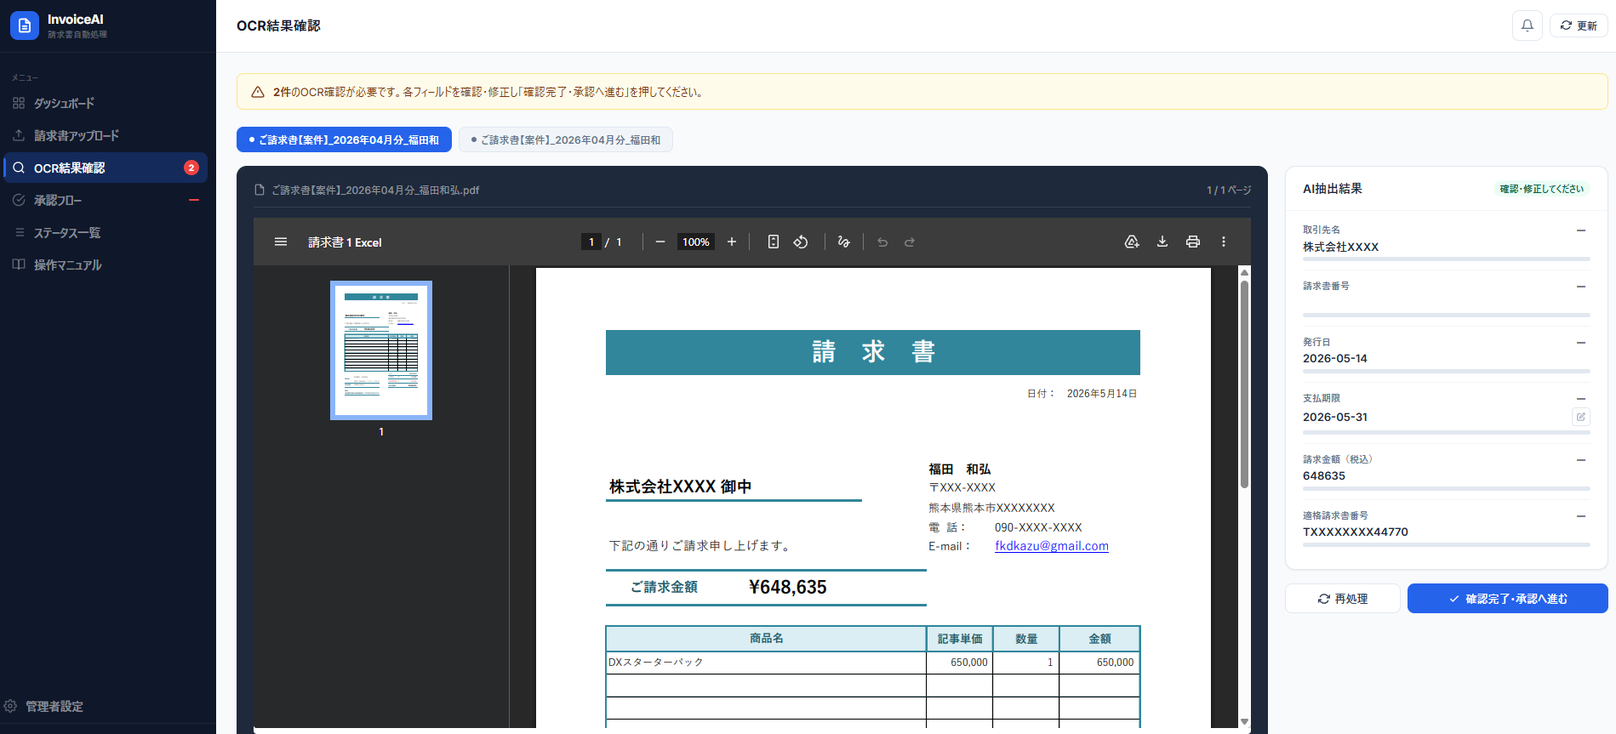
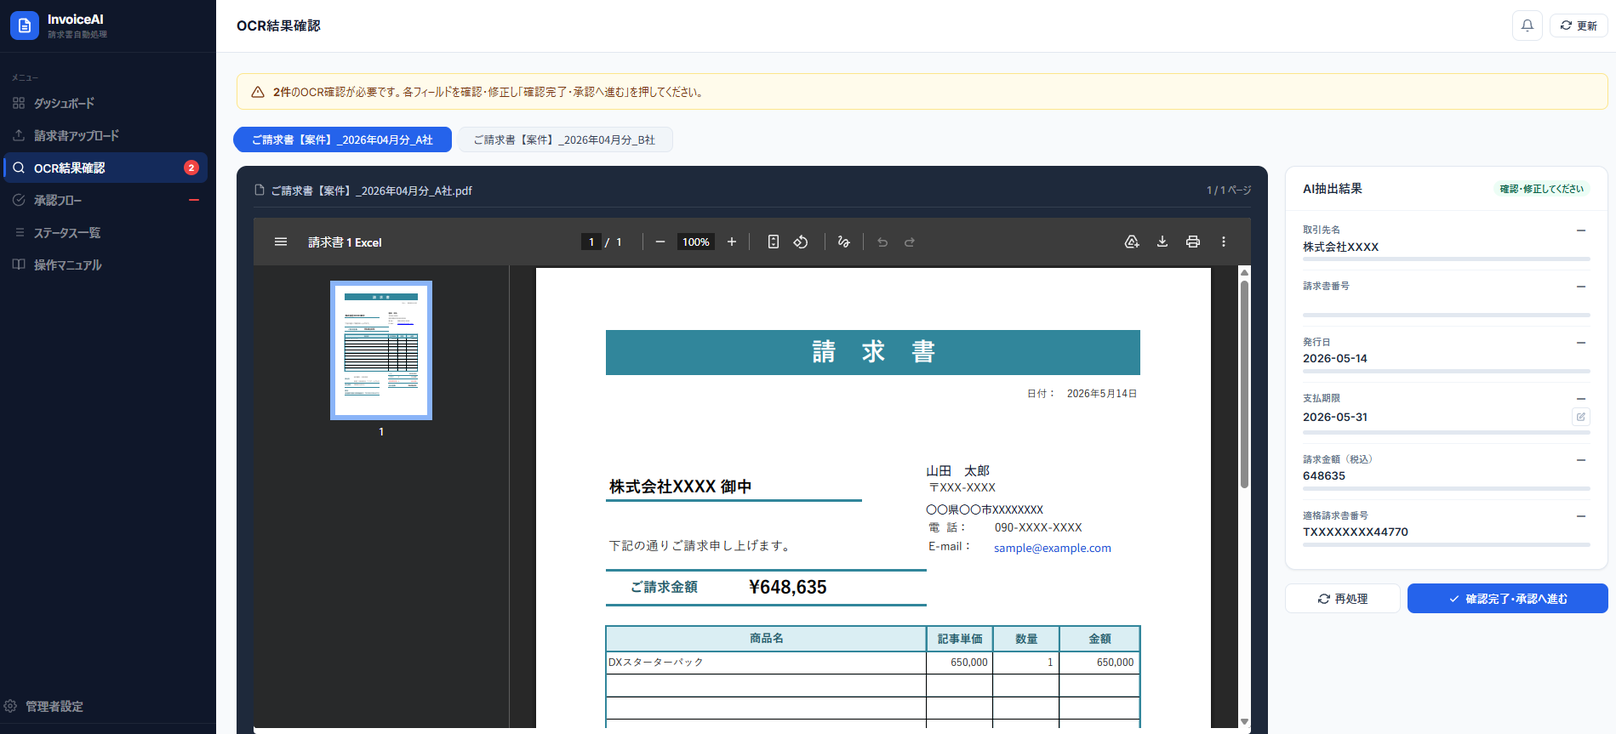
feat: 請求書OCRの記事を公開し、ツール画面から個人情報を伏せる
第4号記事「請求書OCRを2つのAIエンジンで自動化した実装記」を公開した。
AI-OCRの精度をどう扱うかを軸に、読み取り精度を検収基準に置かず
人の確認を前提に設計した判断を書いている。

あわせて DXスターターパックのページで使っている画面キャプチャ5枚を
個人情報を伏せた版に差し替えた。
氏名・メールアドレス・住所が生のまま写っていたもので、
塗り潰しではなく背景色を合わせたうえで架空の値を描いている。

Changed region(s): [[0.5592, 0.6327, 0.6835, 0.7532], [0.1553, 0.1808, 0.4039, 0.2109], [0.1553, 0.241, 0.3107, 0.2711]]

diff --git a/blog/invoice-ocr-automation/index.html b/blog/invoice-ocr-automation/index.html
@@ -1,0 +1,127 @@
+<!DOCTYPE html><html lang="ja"> <head><meta charset="UTF-8"><meta name="viewport" content="width=device-width, initial-scale=1.0"><title>請求書OCRを2つのAIエンジンで自動化した実装記｜Textract・Claude Vision使い分けの理由</title><meta name="description" content="請求書OCRをAmazon TextractとClaude Visionの2エンジン選択式で自動化した実装記。処理速度の実測値、精度検証の失敗談、100%を保証しない品質担保の考え方を紹介します。"><link rel="canonical" href="https://shikou-ai.com/blog/invoice-ocr-automation/"><link rel="icon" type="image/png" href="/logo-icon.png"><!-- OGP --><meta property="og:type" content="website"><meta property="og:title" content="請求書OCRを2つのAIエンジンで自動化した実装記｜Textract・Claude Vision使い分けの理由"><meta property="og:description" content="請求書OCRをAmazon TextractとClaude Visionの2エンジン選択式で自動化した実装記。処理速度の実測値、精度検証の失敗談、100%を保証しない品質担保の考え方を紹介します。"><meta property="og:image" content="https://shikou-ai.com/blog/og/invoice-ocr-automation.png"><meta property="og:url" content="https://shikou-ai.com/blog/invoice-ocr-automation/"><meta name="twitter:card" content="summary_large_image"><meta name="twitter:title" content="請求書OCRを2つのAIエンジンで自動化した実装記｜Textract・Claude Vision使い分けの理由"><meta name="twitter:description" content="請求書OCRをAmazon TextractとClaude Visionの2エンジン選択式で自動化した実装記。処理速度の実測値、精度検証の失敗談、100%を保証しない品質担保の考え方を紹介します。"><meta name="twitter:image" content="https://shikou-ai.com/blog/og/invoice-ocr-automation.png"><!-- Google Fonts --><link rel="preconnect" href="https://fonts.googleapis.com"><link rel="preconnect" href="https://fonts.gstatic.com" crossorigin><link href="https://fonts.googleapis.com/css2?family=Noto+Sans+JP:wght@400;500;700&display=swap" rel="stylesheet"><link rel="stylesheet" href="/blog/_astro/_slug_.CkmGLpor.css">
+<link rel="stylesheet" href="/blog/_astro/_slug_.9WCtaYt9.css"><script type="module">const i=document.getElementById("article-body");if(i){const e=i.innerText.replace(/\s+/g,"").length,o=Math.max(1,Math.ceil(e/600)),n=document.getElementById("reading-time");n&&(n.textContent=`約${o}分で読めます`)}const u=Array.from(document.querySelectorAll("#article-body h2, #article-body h3")),d=document.getElementById("toc-inline");if(d&&u.length>0){let e=null,o=null;u.forEach((n,a)=>{if(n.id||(n.id=`h-${a}`),n.tagName==="H2"){e=document.createElement("div"),e.className="toc-group";const l=document.createElement("a");l.href=`#${n.id}`,l.className="toc-h2-label",l.textContent=n.textContent??"",e.appendChild(l),d.appendChild(e),o=null}else{o||(o=document.createElement("ul"),o.className="toc-h3-list",e?e.appendChild(o):d.appendChild(o));const l=document.createElement("li"),c=document.createElement("a");c.href=`#${n.id}`,c.textContent=n.textContent??"",l.appendChild(c),o.appendChild(l)}})}else if(d){const e=d.closest(".toc-box");e&&(e.style.display="none")}const p=encodeURIComponent(location.href),f=encodeURIComponent(document.title),m=document.getElementById("share-x");m&&(m.href=`https://twitter.com/intent/tweet?url=${p}&text=${f}`);const h=Array.from(document.querySelectorAll("#article-body img"));if(h.length>0){const e=document.createElement("div");e.className="lightbox",e.setAttribute("role","dialog"),e.setAttribute("aria-modal","true"),e.hidden=!0;const o=document.createElement("img");o.className="lightbox-img",o.alt="";const n=document.createElement("button");n.className="lightbox-close",n.type="button",n.setAttribute("aria-label","閉じる"),n.textContent="×";const a=document.createElement("p");a.className="lightbox-caption",e.appendChild(n),e.appendChild(o),e.appendChild(a),document.body.appendChild(e);let l=null;const c=t=>{l=t,o.src=t.currentSrc||t.src,o.alt=t.alt,a.textContent=t.alt,e.hidden=!1,document.body.style.overflow="hidden",n.focus()},s=()=>{e.hidden=!0,o.src="",document.body.style.overflow="",l&&l.focus()};h.forEach(t=>{t.closest("a")||(t.classList.add("zoomable"),t.tabIndex=0,t.setAttribute("role","button"),t.setAttribute("aria-label",`${t.alt} を拡大表示`),t.addEventListener("click",()=>c(t)),t.addEventListener("keydown",r=>{(r.key==="Enter"||r.key===" ")&&(r.preventDefault(),c(t))}))}),n.addEventListener("click",s),e.addEventListener("click",t=>{t.target===e&&s()}),document.addEventListener("keydown",t=>{t.key==="Escape"&&!e.hidden&&s()})}
+</script></head> <body class="bg-white text-gray-900"> <!-- Header：ai-consulting-lp のヘッダーに合わせる --> <header class="border-b border-[#dfe6ee] bg-white/95 backdrop-blur sticky top-0 z-50"> <div class="max-w-5xl mx-auto px-6 h-16 flex items-center justify-between"> <a href="/" class="flex items-center gap-2.5 group"> <img src="/logo-mark.png" alt="SHIKOU × AI" class="h-7 w-auto"> <span class="text-[15px] font-black tracking-[0.08em] text-[#0b2138] group-hover:text-[#2f6fd0] transition-colors">SHIKOU<span class="text-[#2f6fd0] mx-[0.16em]">×</span>AI</span> </a> <nav class="flex items-center gap-1 text-sm"> <a href="/blog/" class="px-3 py-1.5 text-[#5a6b7d] hover:text-[#2f6fd0] transition-colors font-bold text-[13.5px]">
+ブログ
+</a> <a href="/about.html" class="px-3 py-1.5 text-[#5a6b7d] hover:text-[#2f6fd0] transition-colors font-bold text-[13.5px] hidden sm:inline">
+会社概要
+</a> <a href="/#services" class="px-3 py-1.5 text-[#5a6b7d] hover:text-[#2f6fd0] transition-colors font-bold text-[13.5px] hidden sm:inline">
+サービス
+</a> <a href="/contact.html" class="ml-2 px-5 py-2 bg-[#0b2138] text-white rounded-md font-bold text-[13.5px] hover:bg-[#102a43] transition-colors">
+お問合せ
+</a> </nav> </div> </header> <main class="max-w-3xl mx-auto px-6 py-8 bg-white">  <script type="application/ld+json">{"@context":"https://schema.org","@type":"BlogPosting","headline":"請求書OCRを2つのAIエンジンで自動化した実装記｜Textract・Claude Vision使い分けの理由","description":"請求書OCRをAmazon TextractとClaude Visionの2エンジン選択式で自動化した実装記。処理速度の実測値、精度検証の失敗談、100%を保証しない品質担保の考え方を紹介します。","datePublished":"2026-09-01T00:00:00.000Z","author":{"@type":"Person","name":"福田 和弘"},"publisher":{"@type":"Organization","name":"SHIKOU × AI"},"articleSection":"AI業務効率化"}</script>  <nav class="text-xs text-gray-400 mb-5 flex gap-1.5 items-center flex-wrap" aria-label="breadcrumb" data-astro-cid-bvzihdzo> <svg xmlns="http://www.w3.org/2000/svg" class="w-3.5 h-3.5 text-gray-300" fill="currentColor" viewBox="0 0 20 20" data-astro-cid-bvzihdzo><path d="M10 2a8 8 0 100 16A8 8 0 0010 2zm0 1.5a6.5 6.5 0 110 13 6.5 6.5 0 010-13z" data-astro-cid-bvzihdzo></path></svg> <a href="/" class="hover:text-gray-600 transition-colors" data-astro-cid-bvzihdzo>ホーム</a> <span class="text-gray-300" data-astro-cid-bvzihdzo>›</span> <a href="/blog/" class="hover:text-gray-600 transition-colors" data-astro-cid-bvzihdzo>ブログ</a>  <span class="text-gray-300" data-astro-cid-bvzihdzo>›</span> <a href="/blog/category/ai-efficiency/" class="hover:text-gray-600 transition-colors" data-astro-cid-bvzihdzo>AI業務効率化</a>  <span class="text-gray-300" data-astro-cid-bvzihdzo>›</span> <span class="text-gray-500 truncate max-w-[200px]" data-astro-cid-bvzihdzo>請求書OCRを2つのAIエンジンで自動化した実装記｜Textract・Claude Vision使い分けの理由</span> </nav> <article data-astro-cid-bvzihdzo> <!-- Title --> <h1 class="text-2xl md:text-[1.75rem] font-black leading-snug mb-5 text-[#0b2138] tracking-tight" data-astro-cid-bvzihdzo>請求書OCRを2つのAIエンジンで自動化した実装記｜Textract・Claude Vision使い分けの理由</h1> <!-- アイキャッチ（OG画像はSNSシェア用。記事内では heroImage を使う） --> <div class="mb-6" data-astro-cid-bvzihdzo> <img src="/blog/img/eyecatch-invoice-ocr-automation.jpg" alt="" width="1200" height="670" class="w-full h-auto rounded-md border border-[#dfe6ee]" loading="eager" fetchpriority="high" decoding="async" data-astro-cid-bvzihdzo> </div> <!-- Tags + Meta --> <div class="flex flex-wrap items-center gap-x-4 gap-y-2 mb-6" data-astro-cid-bvzihdzo> <div class="flex gap-2 flex-wrap" data-astro-cid-bvzihdzo> <span class="text-xs bg-[#102a43] text-white px-3 py-1 rounded-full font-medium" data-astro-cid-bvzihdzo>請求書</span><span class="text-xs bg-[#102a43] text-white px-3 py-1 rounded-full font-medium" data-astro-cid-bvzihdzo>AI-OCR</span><span class="text-xs bg-[#102a43] text-white px-3 py-1 rounded-full font-medium" data-astro-cid-bvzihdzo>経理</span><span class="text-xs bg-[#102a43] text-white px-3 py-1 rounded-full font-medium" data-astro-cid-bvzihdzo>業務自動化</span><span class="text-xs bg-[#102a43] text-white px-3 py-1 rounded-full font-medium" data-astro-cid-bvzihdzo>精度</span> </div> <div class="text-xs text-gray-400 ml-auto flex gap-3" data-astro-cid-bvzihdzo>  <time datetime="2026-09-01T00:00:00.000Z" data-astro-cid-bvzihdzo>2026/9/1 公開</time> </div> </div> <!-- CTA Banner --> <a href="/contact.html" class="mb-8 bg-[#0b2138] rounded-md px-6 py-4 flex items-center justify-between text-white no-underline hover:bg-[#102a43] transition-colors" data-astro-cid-bvzihdzo> <div class="flex items-center gap-4" data-astro-cid-bvzihdzo> <div class="text-xs bg-white/15 rounded-full px-3 py-1 text-center leading-tight whitespace-nowrap" data-astro-cid-bvzihdzo> <div class="text-[0.6rem] opacity-80" data-astro-cid-bvzihdzo>AI業務改善</div> <div data-astro-cid-bvzihdzo>ご相談</div> </div> <div data-astro-cid-bvzihdzo> <p class="text-[0.7rem] opacity-75" data-astro-cid-bvzihdzo>技術と現場、両方わかるAIコンサル</p> <p class="font-bold text-base leading-snug" data-astro-cid-bvzihdzo>面倒な作業を、1つ挙げてください。</p> </div> </div> <div class="w-8 h-8 rounded-full border-2 border-white/50 flex items-center justify-center flex-shrink-0" data-astro-cid-bvzihdzo> <svg xmlns="http://www.w3.org/2000/svg" class="w-4 h-4" fill="none" viewBox="0 0 24 24" stroke="currentColor" data-astro-cid-bvzihdzo><path stroke-linecap="round" stroke-linejoin="round" stroke-width="2" d="M9 5l7 7-7 7" data-astro-cid-bvzihdzo></path></svg> </div> </a> <!-- 目次 --> <div class="toc-box border border-gray-200 mb-10" data-astro-cid-bvzihdzo> <div class="px-4 py-2 border-b border-gray-200" data-astro-cid-bvzihdzo> <span class="font-bold text-gray-600 text-xs tracking-wide" data-astro-cid-bvzihdzo>目次</span> </div> <nav id="toc-inline" class="px-4 py-3" data-astro-cid-bvzihdzo></nav> </div> <!-- Article Content --> <div id="article-body" class="prose prose-gray max-w-none bg-white
+      prose-p:leading-[1.9] prose-p:text-gray-700 prose-p:text-[1rem]
+      prose-a:text-[#2f6fd0] prose-a:underline
+      prose-strong:text-gray-900 prose-strong:font-bold
+      prose-li:text-gray-700 prose-li:text-[1rem]
+      prose-img:rounded-sm
+    " data-astro-cid-bvzihdzo>  <p>紙やPDFで届く請求書を、Excelに手で打ち直す。この作業をなくしたい、というのが出発点でした。</p>
+<p>そこで、AIによるOCR（光学文字認識。画像内の文字を機械が読み取る技術）で読み取り、確認・修正・承認・ステータス管理までをクラウド上で完結できるアプリを作りました。</p>
+<p>ただ、作りながら分かったのは<mark class="warn">「読み取れれば終わり」ではない</mark>ということです。OCRエンジンにはAmazon TextractとClaude Vision（Anthropicの画像認識AI）の2つを用意し、案件ごとに選べる形にしました。</p>
+<p>なぜ1つに絞らなかったのか。そこに至るまでに何でつまずいたのか。AI-OCRの導入を考えている方が、精度や運用の線引きをどこに置けばよいかを判断する材料になればと思います。</p>
+<h2 id="何ができるものか">何ができるものか</h2>
+<p>このシステムは、経理担当者が請求書のPDFや画像をアップロードすると、AIが金額・日付・取引先などの項目を読み取り、確認画面に自動で反映するところまでを行います。読み取り結果は人が確認・修正したうえで承認担当者に回り、承認されるとステータスが更新される流れです。</p>
+<img src="/blog/img/screen-invoice-ocr.png" alt="OCR結果の確認画面。左に請求書のPDFを表示し、右側に取引先名・請求書番号・発行日・支払期限・請求金額・適格請求書番号をAIが抽出した結果が並ぶ。各項目は編集でき、下部に「確認完了・承認へ進む」ボタンがある" width="1899" height="863" loading="lazy" decoding="async" style="width:100%;max-width:100%;height:auto;margin:1.5rem auto 0.6rem;display:block;border:1px solid #dfe6ee;border-radius:6px;"/>
+<span style="display:block;font-size:0.8rem;color:#5a6b7d;text-align:center;margin-bottom:1.75rem;">読み取り結果の確認画面。左に原本、右にAIの抽出結果を並べ、人が見比べて直せるようにしている（社名・氏名・連絡先はダミーに置き換えています）</span>
+<p>利用者は経理担当者（アップロード）・承認担当者（承認・差し戻し）・管理者の3つの役割に分かれており、同時利用人数は10人以下を想定した設計にしています。会計ソフトのfreeeとの連携機能もあわせて実装しました。</p>
+<img src="/blog/img/screen-invoice-approval.png" alt="承認フロー画面。承認待ち・承認済み・差し戻し・全ての4つのタブがあり、請求書の一覧から1件を選ぶと右側に承認アクションと請求書詳細が表示される" width="1879" height="893" loading="lazy" decoding="async" style="width:100%;max-width:100%;height:auto;margin:1.5rem auto 0.6rem;display:block;border:1px solid #dfe6ee;border-radius:6px;"/>
+<span style="display:block;font-size:0.8rem;color:#5a6b7d;text-align:center;margin-bottom:1.75rem;">承認フロー。確認を終えた請求書がここに回り、承認と差し戻しを選べる（社名・連絡先はダミーに置き換えています）</span>
+<h2 id="なぜ作ったか">なぜ作ったか</h2>
+<p>請求書をExcelに手で転記していると、入力ミスが起きますし、件数が増えるほど時間もかかります。担当者しか手順を把握していない、更新が漏れる、確認のたびに人を捕まえる。中小企業のExcel業務では、このあたりがまとめて問題になりがちです。</p>
+<p>そこで、読み取りから承認までを1つのアプリで完結させ、<mark>転記という作業そのものをなくす</mark>方向で設計しました。</p>
+<h2 id="導入すると何が変わるか">導入すると何が変わるか</h2>
+<p>読み取りが速くなったこと以上に効いたのは、エンジンを1つに絞らなかったことでした。</p>
+<h3 id="処理時間はエンジンによって違う">処理時間はエンジンによって違う</h3>
+<p>OCRの処理時間は、Textractが5〜15秒、Claude Visionが15〜30秒でした。いずれもPDFの枚数に応じて変動する条件下での値です。</p>
+<p>またAPIレスポンスは通常500ミリ秒以内で返ります（Lambdaのコールドスタートを除く条件です）。処理全体のうち、待ち時間の大部分はOCR自体の読み取りにかかる時間が占めています。</p>
+<h3 id="なぜ2つのエンジンを選択式にしたか">なぜ2つのエンジンを選択式にしたか</h3>
+<p>2つのエンジンは、得意な場面が違います。Textractは日本語の印刷文字と処理速度に強く、Claude Visionは手書きや複雑なレイアウトに強い。</p>
+<p>精度だけを見ればClaude Visionに寄せたくなりますが、<mark>こちらはAPIの利用にコストがかかります</mark>。印刷された請求書ばかりならTextractで足りるので、案件ごとに選べるようにしました。</p>
+<p>実装としては、OCRを担うLambda関数（サーバーを用意せずコードを実行できるAWSのサービス）の中で、どちらを使うかを示すフィールドを見て分岐させているだけです。フロントエンドやAPI側には手を入れずに済みます。</p>
+<img src="/blog/img/screen-invoice-upload.png" alt="請求書アップロード画面。ファイルのドラッグ＆ドロップ領域の下に、OCRエンジンとしてTextract（標準）とClaude Vision（高精度）を選ぶラジオボタンが並んでいる" width="1026" height="668" loading="lazy" decoding="async" style="width:100%;max-width:100%;height:auto;margin:1.5rem auto 0.6rem;display:block;border:1px solid #dfe6ee;border-radius:6px;"/>
+<span style="display:block;font-size:0.8rem;color:#5a6b7d;text-align:center;margin-bottom:1.75rem;">アップロード時にエンジンを選ぶ。書類の性質に応じて使い分けられるようにした（ファイル名はダミーに置き換えています）</span>
+<h2 id="品質をどう担保しているか">品質をどう担保しているか</h2>
+<p>AI-OCRを入れれば全部が自動になる、とは言えません。実際に2つのエンジンを動かしてみて分かったことと、それを踏まえてどう設計したかを書きます。</p>
+<h3 id="textractで困った場面">Textractで困った場面</h3>
+<p>Textractを動かしてみると、<mark class="warn">同じ書類の中に読み取れる文字と読み取れない文字が混ざりました</mark>。全部だめなら諦めもつきますが、部分的に抜けるので、結局どこが正しいのか人が全部見ることになります。</p>
+<p>これでは日本語の請求書にTextract単体では厳しい、と判断しました。</p>
+<h3 id="claude-visionに切り替えた決め手">Claude Visionに切り替えた決め手</h3>
+<p>そこでClaude Visionを追加で実装しました。決め手になったのは、自分で試した1つの検証です。</p>
+<p>白い紙に項目名とデータを箇条書きで手書きして、字は汚いまま、それを写真に撮って取り込みました。<mark>すべて読み取れました。</mark></p>
+<p>活字ならTextract、手書きや崩れたレイアウトならClaude Vision。この差を、頭ではなく実際の出力で確かめられたのが大きかったです。</p>
+<h3 id="それでも100にはならないという前提">それでも100%にはならないという前提</h3>
+<p>とはいえ、<mark class="warn">どちらを使っても100%にはなりません。</mark>Claude Visionは変則的なフォームに強い反面、ハルシネーション（AIが実際にはない値を作り出してしまう誤り）が起きることもあります。</p>
+<p>ここを曖昧にしたまま「AI-OCRで全自動化できます」と売ると、あとで必ずもめます。ですのでご説明は<mark>「手入力をAIが下書きするので、確認と修正だけで済むようになります」</mark>で統一しています。</p>
+<p>検収の基準も<mark class="warn">読み取り精度ではなく「承認まで通ること」</mark>に置きました。精度を数値で保証することはしていません。</p>
+<p>こうした「精度を保証せず、承認を基準にする」考え方は、<a href="/blog/seo-article-automation/">SEO記事制作を自動化した事例</a>でも同様に採用しています。</p>
+<p>参考までに、日本語の請求書を実際に通したときの体感を並べておきます。公式なベンチマークではなく、あくまで自分の手元で試した範囲の感触です。</p>
+
+
+
+
+
+
+
+
+
+
+
+
+
+
+
+
+
+
+
+
+
+
+
+
+
+
+
+
+
+
+<table><thead><tr><th>OCRエンジン</th><th>体感精度</th><th>実装・動作確認の有無</th></tr></thead><tbody><tr><td>Amazon Textract</td><td>65〜75%</td><td>実装・確認済み</td></tr><tr><td>Google Document AI</td><td>75〜85%</td><td>未実装（参考情報）</td></tr><tr><td>Azure Document Intelligence</td><td>80〜90%</td><td>未実装（参考情報）</td></tr><tr><td>Claude Vision</td><td>85〜93%</td><td>実装・確認済み</td></tr></tbody></table>
+<p>自分で実装して動かしたのはTextractとClaude Visionの2つだけです。Google Document AIとAzure Document Intelligenceは触っていないので、比較の参考として並べているだけとお考えください。</p>
+<h2 id="クライアント様が運用できる形にするまでにやったこと">クライアント様が運用できる形にするまでにやったこと</h2>
+<p>動くものができてから、実際に使っていただけるようになるまでには、いくつか詰まったところがあります。</p>
+<h3 id="サーバーレス構成でのつまずき">サーバーレス構成でのつまずき</h3>
+<p>OCRを担うLambda関数が、既定の128MBのままだと処理の途中でメモリ不足（OutOfMemory）で落ちました。<mark class="num">512MBまで上げて</mark>解決しています。</p>
+<p>OCRの完了検知でも手こずりました。最初は一定間隔で状態を見に行くだけ（ポーリング）にしていたのですが、終わったかどうかの判定が安定しません。</p>
+<p>そこで完了時刻を記録するフィールドを足したうえで、初回1秒・以降2秒間隔・90秒でタイムアウト、という形に変えています。それまでは5秒間隔でした。</p>
+<p>こうした細かい調整を積んで、ようやく人に渡せる状態になります。同じようなLambdaまわりの詰まりは、<a href="/blog/internal-link-automation/">内部リンク自動化の実装記</a>でも書いています。</p>
+<h3 id="コストと精度のバランスをとったモデル選定">コストと精度のバランスをとったモデル選定</h3>
+<p>Claude Visionで使うモデルも、最初はopusでしたが途中でsonnetに変えました。請求書の読み取りであればsonnetで精度は落ちず、そのぶんコストを抑えられると判断したためです。</p>
+<h2 id="どんな場合に向いているか">どんな場合に向いているか</h2>
+<p>扱っている書類や体制によって、組み方は変わります。目安として整理しておきます。</p>
+<ul>
+<li>印刷された日本語の請求書が中心で、費用を抑えたいなら、Textractだけで足ります</li>
+<li>手書きやレイアウトが崩れた書類が混じるなら、Claude Visionを併用する形がおすすめです</li>
+<li>経理担当・承認担当・管理者と役割を分けたいなら、権限の設計を先に決めておく必要があります</li>
+<li>使う方が少人数（今回は10人以下を想定しています）なら、今回と近い規模で考えていただけます</li>
+</ul>
+<p>どの組み方であっても、<mark>読み取り精度を100%と見込まず、人が確認する工程を残しておく</mark>ことをおすすめします。ここを飛ばすと、あとで必ず戻ってきます。</p>
+<h2 id="よくある質問">よくある質問</h2>
+<h3 id="既存の会計システムと連携できますか">既存の会計システムと連携できますか</h3>
+<p>freeeとの連携を実装しています。承認が下りた請求書を、そのまま取引としてfreeeへ登録できるので、仕訳の手入力もなくせます。</p>
+<h3 id="手書きの請求書にも対応できますか">手書きの請求書にも対応できますか</h3>
+<p>対応できます。項目名とデータを手書きした紙を撮影して取り込んだところ、すべて読み取れました。</p>
+<p>ただしこれは1件試した結果です。書き方や紙の状態によって変わりますので、実際の書類で一度お試しいただくのが確実です。</p>
+<h3 id="読み取り精度は何と保証されますか">読み取り精度は何%と保証されますか</h3>
+<p>保証はしていません。どちらのエンジンでも100%にはならないためです。そのかわり、検収の基準は「読み取り精度」ではなく「承認まで通ること」に置いてご説明しています。</p>
+<h3 id="導入すればすべて自動で処理されますか">導入すればすべて自動で処理されますか</h3>
+<p>読み取りは自動ですが、<mark class="warn">確認と修正は人が行う設計</mark>です。AIが下書きを作り、人が目を通して直す。この位置づけで運用しています。</p>
+<h2 id="まとめ">まとめ</h2>
+<p>請求書OCRを検討するとき、どのエンジンが優秀かを比べる前に、自社に届く請求書が印刷中心なのか手書きが混じるのかを見ておくと、話が早く進みます。今回はそこが読み切れなかったので、TextractとClaude Visionを選べる形にしました。</p>
+<p><mark>精度は、どこまで上げても100%にはなりません。</mark>ですから「AIにどこまで任せ、どこから人が見るか」を先に決めておくほうが、実際の運用では効いてきます。</p>
+<p>手元の請求書を何枚か眺めてみるところから始めていただければ、どちらの構成で考えればよいかが見えてくるはずです。</p>
+<h2 id="この仕組みを自社でも動かしたい方へ">この仕組みを自社でも動かしたい方へ</h2>
+<p>FAX・紙・Excelでの請求書処理に手間を感じている、中小企業の経理・業務改善のご担当者様向けの内容になっています。</p>
+<p>**まずは対象の業務を1つ挙げていただくところから始まります。**そこからヒアリングして要件を整理し、開発・運用までを対応させていただきます。</p>
+<p>紙やExcel中心の業務を1つシステム化したい、ということでしたら<a href="/dx-starter-pack.html">中小企業向けDXスターターパック</a>がおすすめです。作ったあとも継続的に手を入れながら、適宜ご相談に乗りながら進める方がやりやすい、という場合は<a href="/retainer.html">Claude Code・Codex業務委託支援</a>もご用意しています。</p>
+<p>「うちの請求書でも読めるのか」というところが気になると思いますので、実際の書類を何枚か拝見するところからでも構いません。お気軽にご相談ください。</p>  </div> <!-- Share Buttons --> <div class="mt-12 pt-6 border-t border-gray-200" data-astro-cid-bvzihdzo> <p class="text-xs text-gray-400 mb-4" data-astro-cid-bvzihdzo>この記事をシェアする</p> <div class="flex gap-3 flex-wrap" data-astro-cid-bvzihdzo> <a id="share-x" href="#" target="_blank" rel="noopener noreferrer" class="flex items-center gap-2 border border-gray-300 text-gray-600 text-sm px-5 py-2 rounded hover:bg-gray-50 transition-all" data-astro-cid-bvzihdzo>
+𝕏 でシェア
+</a> </div> </div> </article>  </main> <footer class="border-t border-[#dfe6ee] bg-white py-10 mt-16"> <div class="max-w-5xl mx-auto px-6 text-center"> <div class="text-sm font-black tracking-wider text-[#0b2138] mb-2">SHIKOU × AI / AI業務自動化支援</div> <p class="text-xs text-[#5a6b7d] mb-3">AI業務改善・AI開発の実績とノウハウを公開しています</p> <p class="text-xs text-[#5a6b7d] mb-1"> <a href="/" class="hover:text-[#2f6fd0] transition-colors">トップ</a> <span class="text-[#dfe6ee] mx-2">/</span> <a href="/about.html" class="hover:text-[#2f6fd0] transition-colors">会社概要</a> <span class="text-[#dfe6ee] mx-2">/</span> <a href="/#services" class="hover:text-[#2f6fd0] transition-colors">サービス</a> <span class="text-[#dfe6ee] mx-2">/</span> <a href="/contact.html" class="hover:text-[#2f6fd0] transition-colors">お問い合わせ</a> </p> <p class="text-xs text-gray-300">&copy; 2026 SHIKOU × AI. All rights reserved.</p> </div> </footer> </body></html>   

diff --git a/blog/index.html b/blog/index.html
@@ -11,7 +11,7 @@
 </h1> <p class="text-[#5a6b7d] text-base max-w-2xl leading-relaxed">
 AI業務改善・AI開発の実績をまとめています。導入して何が変わったのか、品質をどう担保したのか、
       どんなケースに向くのかを、実測した数値とあわせて書いています。
-</p> </section>  <section class="mb-12"> <div class="flex flex-wrap gap-2"> <a href="/blog/category/seo-ai/" class="text-sm font-bold text-[#5a6b7d] border border-[#dfe6ee] rounded-md px-4 py-2 hover:border-[#2f6fd0] hover:text-[#2f6fd0] transition-colors"> SEO × AI<span class="text-xs text-[#a8bdd6] ml-1.5">2</span> </a> </div> </section> <section class="mb-16"> <ul class="space-y-9"> <li class="border-b border-[#dfe6ee] pb-9"> <a href="/blog/internal-link-automation/" class="group flex flex-col sm:flex-row gap-5 sm:gap-7"> <div class="sm:w-[292px] sm:flex-shrink-0"> <img src="/blog/img/eyecatch-internal-link-automation.jpg" alt="" width="1200" height="630" loading="lazy" decoding="async" class="w-full h-auto rounded-md border border-[#dfe6ee] group-hover:border-[#a8bdd6] transition-colors"> </div> <div class="flex-1 min-w-0"> <div class="flex items-center gap-3 mb-2"> <span class="text-xs font-bold text-white bg-[#102a43] px-2.5 py-1 rounded"> 実績 </span> <span class="text-xs font-bold text-[#2f6fd0]"> SEO × AI </span> <time class="text-xs text-[#5a6b7d]" datetime="2026-08-24T00:00:00.000Z"> 2026/8/24 </time> </div> <h2 class="text-xl font-bold text-[#0b2138] group-hover:text-[#2f6fd0] transition-colors mb-2 leading-snug"> 内部リンク不足の記事へAIが提案し、WordPressへ自動挿入する仕組みを作った話 </h2> <p class="text-[#5a6b7d] text-sm leading-relaxed line-clamp-3">被リンクが少ない記事へAIが内部リンクを提案し、承認後にWordPressへ自動挿入する仕組みを解説。処理時間・コストの実測値や品質担保の方法も紹介します。</p> </div> </a> </li><li class="border-b border-[#dfe6ee] pb-9"> <a href="/blog/seo-article-automation/" class="group flex flex-col sm:flex-row gap-5 sm:gap-7"> <div class="sm:w-[292px] sm:flex-shrink-0"> <img src="/blog/img/eyecatch-seo-article-automation.jpg" alt="" width="1200" height="630" loading="lazy" decoding="async" class="w-full h-auto rounded-md border border-[#dfe6ee] group-hover:border-[#a8bdd6] transition-colors"> </div> <div class="flex-1 min-w-0"> <div class="flex items-center gap-3 mb-2"> <span class="text-xs font-bold text-white bg-[#102a43] px-2.5 py-1 rounded"> 実績 </span> <span class="text-xs font-bold text-[#2f6fd0]"> SEO × AI </span> <time class="text-xs text-[#5a6b7d]" datetime="2026-08-22T00:00:00.000Z"> 2026/8/22 </time> </div> <h2 class="text-xl font-bold text-[#0b2138] group-hover:text-[#2f6fd0] transition-colors mb-2 leading-snug"> 1記事3日かかっていたSEO記事制作を、品質を落とさずに自動化した事例 </h2> <p class="text-[#5a6b7d] text-sm leading-relaxed line-clamp-3">ライターに依頼すると1記事3日かかっていたSEO記事制作を、品質を維持したまま自動化した事例です。開発前に品質を証明した進め方、5工程の中身、品質検証の方法をまとめています。</p> </div> </a> </li> </ul> </section>  <section class="bg-[#f6f8fb] rounded-lg px-8 py-10 mb-8"> <h2 class="text-xl font-bold text-[#0b2138] mb-3">AI業務改善・AI開発のご相談</h2> <p class="text-[#5a6b7d] text-sm mb-6 leading-relaxed">
+</p> </section>  <section class="mb-12"> <div class="flex flex-wrap gap-2"> <a href="/blog/category/ai-efficiency/" class="text-sm font-bold text-[#5a6b7d] border border-[#dfe6ee] rounded-md px-4 py-2 hover:border-[#2f6fd0] hover:text-[#2f6fd0] transition-colors"> AI業務効率化<span class="text-xs text-[#a8bdd6] ml-1.5">1</span> </a><a href="/blog/category/seo-ai/" class="text-sm font-bold text-[#5a6b7d] border border-[#dfe6ee] rounded-md px-4 py-2 hover:border-[#2f6fd0] hover:text-[#2f6fd0] transition-colors"> SEO × AI<span class="text-xs text-[#a8bdd6] ml-1.5">2</span> </a> </div> </section> <section class="mb-16"> <ul class="space-y-9"> <li class="border-b border-[#dfe6ee] pb-9"> <a href="/blog/invoice-ocr-automation/" class="group flex flex-col sm:flex-row gap-5 sm:gap-7"> <div class="sm:w-[292px] sm:flex-shrink-0"> <img src="/blog/img/eyecatch-invoice-ocr-automation.jpg" alt="" width="1200" height="630" loading="lazy" decoding="async" class="w-full h-auto rounded-md border border-[#dfe6ee] group-hover:border-[#a8bdd6] transition-colors"> </div> <div class="flex-1 min-w-0"> <div class="flex items-center gap-3 mb-2"> <span class="text-xs font-bold text-white bg-[#102a43] px-2.5 py-1 rounded"> 実績 </span> <span class="text-xs font-bold text-[#2f6fd0]"> AI業務効率化 </span> <time class="text-xs text-[#5a6b7d]" datetime="2026-09-01T00:00:00.000Z"> 2026/9/1 </time> </div> <h2 class="text-xl font-bold text-[#0b2138] group-hover:text-[#2f6fd0] transition-colors mb-2 leading-snug"> 請求書OCRを2つのAIエンジンで自動化した実装記｜Textract・Claude Vision使い分けの理由 </h2> <p class="text-[#5a6b7d] text-sm leading-relaxed line-clamp-3">請求書OCRをAmazon TextractとClaude Visionの2エンジン選択式で自動化した実装記。処理速度の実測値、精度検証の失敗談、100%を保証しない品質担保の考え方を紹介します。</p> </div> </a> </li><li class="border-b border-[#dfe6ee] pb-9"> <a href="/blog/internal-link-automation/" class="group flex flex-col sm:flex-row gap-5 sm:gap-7"> <div class="sm:w-[292px] sm:flex-shrink-0"> <img src="/blog/img/eyecatch-internal-link-automation.jpg" alt="" width="1200" height="630" loading="lazy" decoding="async" class="w-full h-auto rounded-md border border-[#dfe6ee] group-hover:border-[#a8bdd6] transition-colors"> </div> <div class="flex-1 min-w-0"> <div class="flex items-center gap-3 mb-2"> <span class="text-xs font-bold text-white bg-[#102a43] px-2.5 py-1 rounded"> 実績 </span> <span class="text-xs font-bold text-[#2f6fd0]"> SEO × AI </span> <time class="text-xs text-[#5a6b7d]" datetime="2026-08-24T00:00:00.000Z"> 2026/8/24 </time> </div> <h2 class="text-xl font-bold text-[#0b2138] group-hover:text-[#2f6fd0] transition-colors mb-2 leading-snug"> 内部リンク不足の記事へAIが提案し、WordPressへ自動挿入する仕組みを作った話 </h2> <p class="text-[#5a6b7d] text-sm leading-relaxed line-clamp-3">被リンクが少ない記事へAIが内部リンクを提案し、承認後にWordPressへ自動挿入する仕組みを解説。処理時間・コストの実測値や品質担保の方法も紹介します。</p> </div> </a> </li><li class="border-b border-[#dfe6ee] pb-9"> <a href="/blog/seo-article-automation/" class="group flex flex-col sm:flex-row gap-5 sm:gap-7"> <div class="sm:w-[292px] sm:flex-shrink-0"> <img src="/blog/img/eyecatch-seo-article-automation.jpg" alt="" width="1200" height="630" loading="lazy" decoding="async" class="w-full h-auto rounded-md border border-[#dfe6ee] group-hover:border-[#a8bdd6] transition-colors"> </div> <div class="flex-1 min-w-0"> <div class="flex items-center gap-3 mb-2"> <span class="text-xs font-bold text-white bg-[#102a43] px-2.5 py-1 rounded"> 実績 </span> <span class="text-xs font-bold text-[#2f6fd0]"> SEO × AI </span> <time class="text-xs text-[#5a6b7d]" datetime="2026-08-22T00:00:00.000Z"> 2026/8/22 </time> </div> <h2 class="text-xl font-bold text-[#0b2138] group-hover:text-[#2f6fd0] transition-colors mb-2 leading-snug"> 1記事3日かかっていたSEO記事制作を、品質を落とさずに自動化した事例 </h2> <p class="text-[#5a6b7d] text-sm leading-relaxed line-clamp-3">ライターに依頼すると1記事3日かかっていたSEO記事制作を、品質を維持したまま自動化した事例です。開発前に品質を証明した進め方、5工程の中身、品質検証の方法をまとめています。</p> </div> </a> </li> </ul> </section>  <section class="bg-[#f6f8fb] rounded-lg px-8 py-10 mb-8"> <h2 class="text-xl font-bold text-[#0b2138] mb-3">AI業務改善・AI開発のご相談</h2> <p class="text-[#5a6b7d] text-sm mb-6 leading-relaxed">
 ここで公開している仕組みは、実際の支援でも同じ考え方で作っています。
       かける予算も任せたい範囲も違うはずなので、4つの関わり方をご用意しています。
 </p> <div class="flex flex-wrap gap-3"> <a href="/#services" class="inline-block bg-[#0b2138] text-white font-bold text-sm px-6 py-3 rounded-md hover:bg-[#102a43] transition-colors">

diff --git a/blog/category/ai-efficiency/index.html b/blog/category/ai-efficiency/index.html
@@ -6,4 +6,4 @@
 サービス
 </a> <a href="/contact.html" class="ml-2 px-5 py-2 bg-[#0b2138] text-white rounded-md font-bold text-[13.5px] hover:bg-[#102a43] transition-colors">
 お問合せ
-</a> </nav> </div> </header> <main class="max-w-3xl mx-auto px-6 py-8 bg-white">  <nav class="text-sm text-[#5a6b7d] mb-6"> <ol class="flex gap-2"> <li><a href="/blog/" class="hover:text-[#2f6fd0]">ブログ</a></li> <li>/</li> <li class="text-[#0b2138]">AI業務効率化</li> </ol> </nav> <h1 class="text-3xl font-black text-[#0b2138] mb-8 tracking-tight">AI業務効率化</h1> <p class="text-[#5a6b7d]">このカテゴリの記事は準備中です。</p><p class="mt-12"> <a href="/blog/" class="text-sm font-bold text-[#2f6fd0] hover:underline">← 記事一覧に戻る</a> </p>  </main> <footer class="border-t border-[#dfe6ee] bg-white py-10 mt-16"> <div class="max-w-5xl mx-auto px-6 text-center"> <div class="text-sm font-black tracking-wider text-[#0b2138] mb-2">SHIKOU × AI / AI業務自動化支援</div> <p class="text-xs text-[#5a6b7d] mb-3">AI業務改善・AI開発の実績とノウハウを公開しています</p> <p class="text-xs text-[#5a6b7d] mb-1"> <a href="/" class="hover:text-[#2f6fd0] transition-colors">トップ</a> <span class="text-[#dfe6ee] mx-2">/</span> <a href="/about.html" class="hover:text-[#2f6fd0] transition-colors">会社概要</a> <span class="text-[#dfe6ee] mx-2">/</span> <a href="/#services" class="hover:text-[#2f6fd0] transition-colors">サービス</a> <span class="text-[#dfe6ee] mx-2">/</span> <a href="/contact.html" class="hover:text-[#2f6fd0] transition-colors">お問い合わせ</a> </p> <p class="text-xs text-gray-300">&copy; 2026 SHIKOU × AI. All rights reserved.</p> </div> </footer> </body></html>
+</a> </nav> </div> </header> <main class="max-w-3xl mx-auto px-6 py-8 bg-white">  <nav class="text-sm text-[#5a6b7d] mb-6"> <ol class="flex gap-2"> <li><a href="/blog/" class="hover:text-[#2f6fd0]">ブログ</a></li> <li>/</li> <li class="text-[#0b2138]">AI業務効率化</li> </ol> </nav> <h1 class="text-3xl font-black text-[#0b2138] mb-8 tracking-tight">AI業務効率化</h1> <ul class="space-y-9"> <li class="border-b border-[#dfe6ee] pb-9"> <a href="/blog/invoice-ocr-automation/" class="group flex flex-col sm:flex-row gap-5 sm:gap-7"> <div class="sm:w-[292px] sm:flex-shrink-0"> <img src="/blog/img/eyecatch-invoice-ocr-automation.jpg" alt="" width="1200" height="630" loading="lazy" decoding="async" class="w-full h-auto rounded-md border border-[#dfe6ee] group-hover:border-[#a8bdd6] transition-colors"> </div> <div class="flex-1 min-w-0"> <div class="flex items-center gap-3 mb-2"> <span class="text-xs font-bold text-white bg-[#102a43] px-2.5 py-1 rounded"> 実績 </span> <time class="text-xs text-[#5a6b7d]" datetime="2026-09-01T00:00:00.000Z"> 2026/9/1 </time> </div> <h2 class="text-xl font-bold text-[#0b2138] group-hover:text-[#2f6fd0] transition-colors mb-2 leading-snug"> 請求書OCRを2つのAIエンジンで自動化した実装記｜Textract・Claude Vision使い分けの理由 </h2> <p class="text-[#5a6b7d] text-sm leading-relaxed line-clamp-3">請求書OCRをAmazon TextractとClaude Visionの2エンジン選択式で自動化した実装記。処理速度の実測値、精度検証の失敗談、100%を保証しない品質担保の考え方を紹介します。</p> </div> </a> </li> </ul><p class="mt-12"> <a href="/blog/" class="text-sm font-bold text-[#2f6fd0] hover:underline">← 記事一覧に戻る</a> </p>  </main> <footer class="border-t border-[#dfe6ee] bg-white py-10 mt-16"> <div class="max-w-5xl mx-auto px-6 text-center"> <div class="text-sm font-black tracking-wider text-[#0b2138] mb-2">SHIKOU × AI / AI業務自動化支援</div> <p class="text-xs text-[#5a6b7d] mb-3">AI業務改善・AI開発の実績とノウハウを公開しています</p> <p class="text-xs text-[#5a6b7d] mb-1"> <a href="/" class="hover:text-[#2f6fd0] transition-colors">トップ</a> <span class="text-[#dfe6ee] mx-2">/</span> <a href="/about.html" class="hover:text-[#2f6fd0] transition-colors">会社概要</a> <span class="text-[#dfe6ee] mx-2">/</span> <a href="/#services" class="hover:text-[#2f6fd0] transition-colors">サービス</a> <span class="text-[#dfe6ee] mx-2">/</span> <a href="/contact.html" class="hover:text-[#2f6fd0] transition-colors">お問い合わせ</a> </p> <p class="text-xs text-gray-300">&copy; 2026 SHIKOU × AI. All rights reserved.</p> </div> </footer> </body></html>
